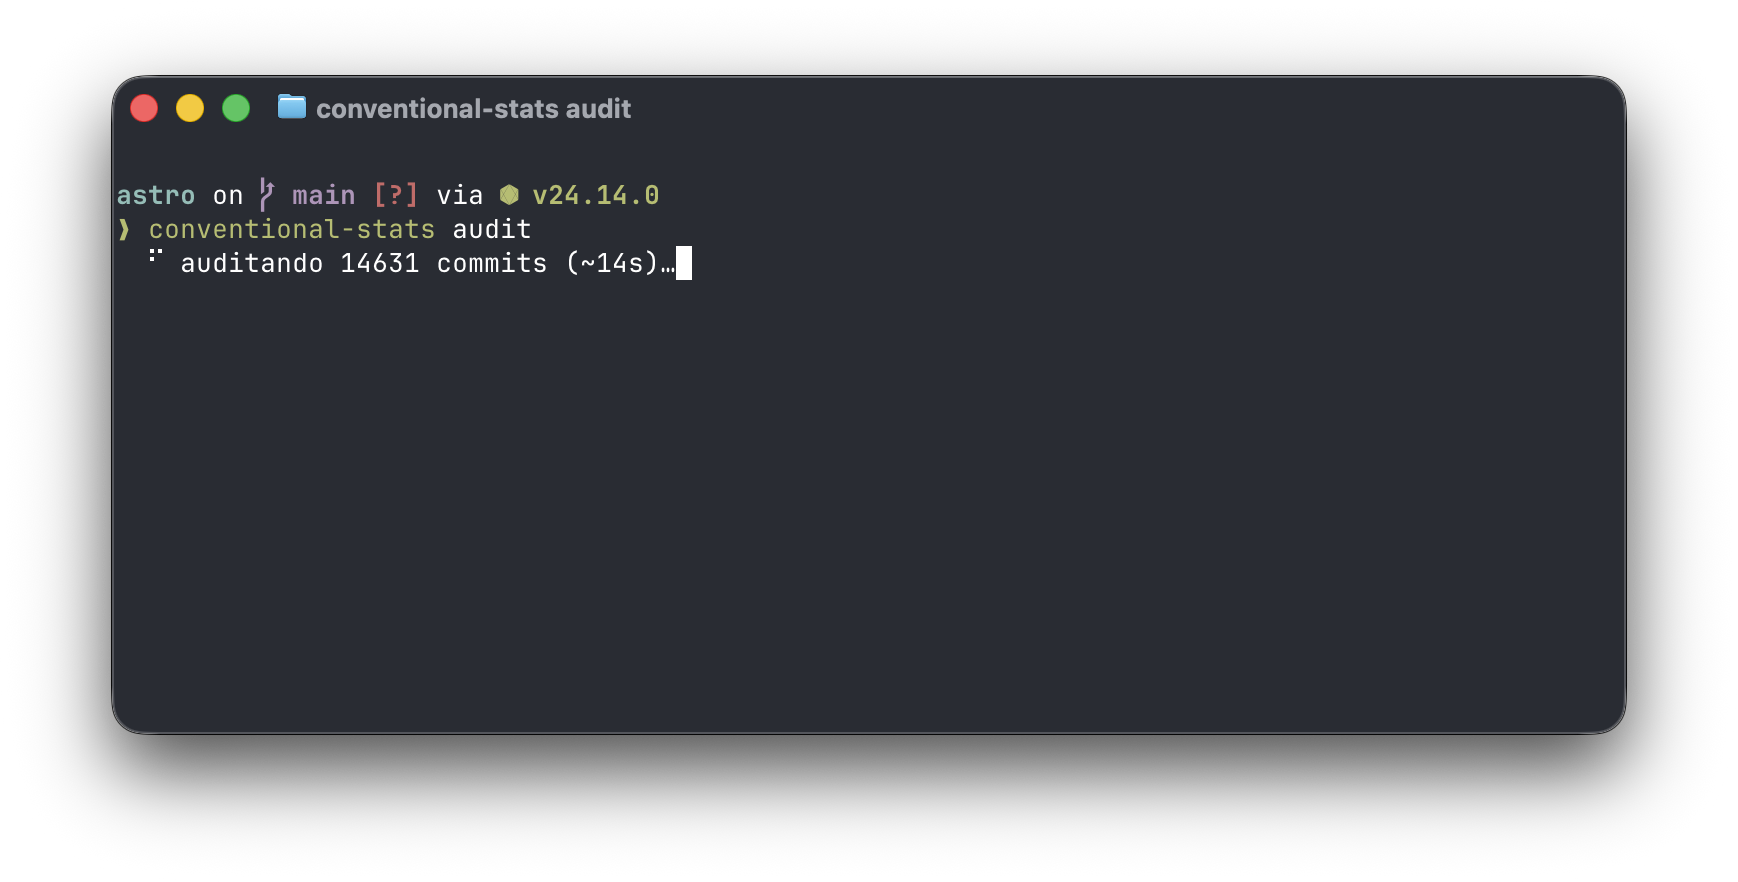
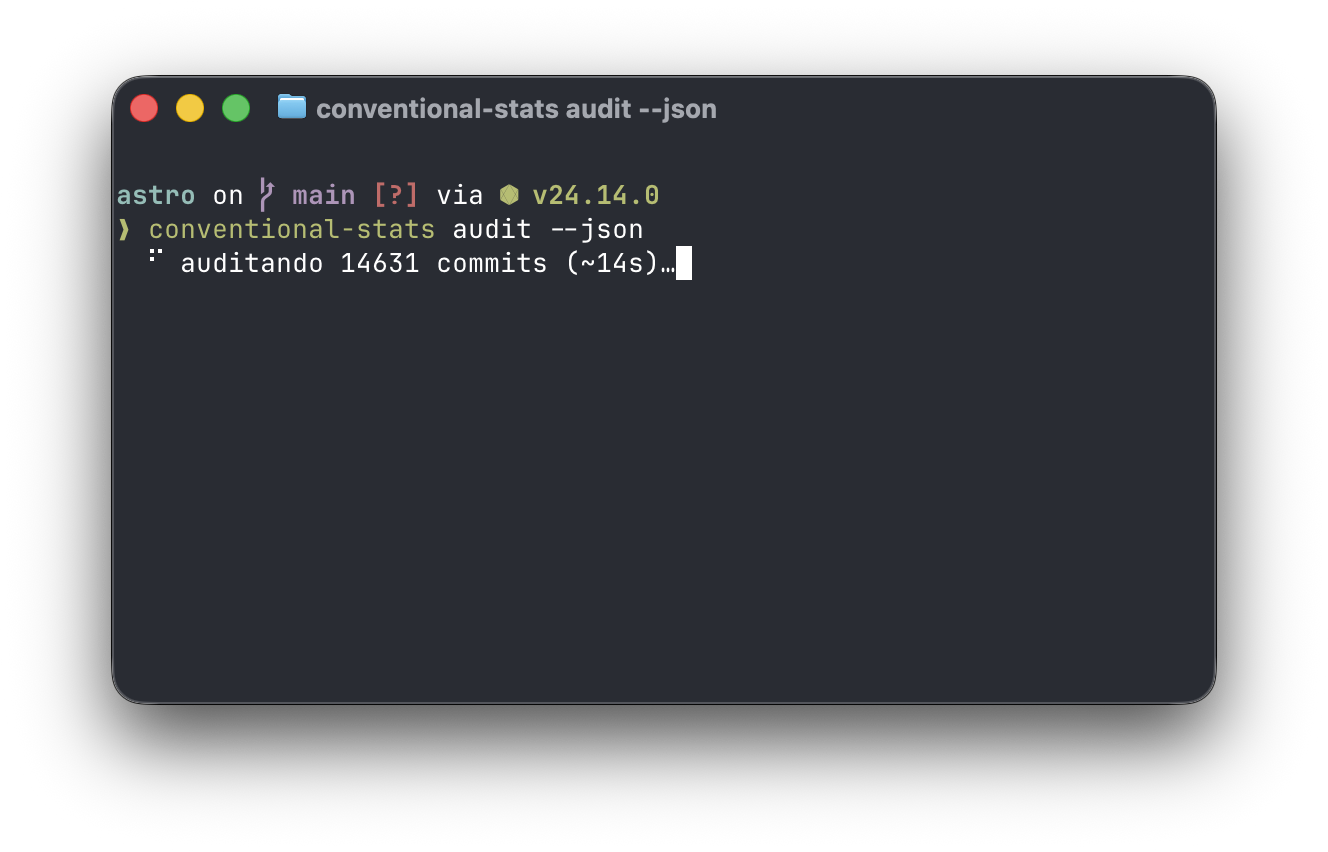
feat: name the audit JSON file conventional-audit.json
Prefix the default output filename so it's easy to add to .gitignore and
doesn't collide with an unrelated audit.json. Refresh the README
screenshots (loading + result) to match.

Changed region(s): [[0.0309, 0.061, 0.9571, 0.885]]

diff --git a/README.md b/README.md
@@ -84,7 +84,7 @@ conventional-stats audit --days 90               # últimos 90 días
 conventional-stats audit --ignore '*.gradle'     # excluir puntualmente (glob/dir)
 conventional-stats audit --init-ignore           # generar un .auditignore de plantilla
 conventional-stats audit --set-ignore '*.md'     # recordar exclusiones en .auditignore
-conventional-stats audit --json                  # informe completo → audit.json
+conventional-stats audit --json                  # informe completo → conventional-audit.json
 conventional-stats audit --json | jq '.hotspots' # o por pipe, para filtrar al vuelo
 ```
 
@@ -94,7 +94,7 @@ En repos grandes recorrer el historial tarda unos segundos, así que muestra el 
 
 ### Salida JSON a un archivo
 
-`--json` devuelve el informe **completo** (sin truncar, con el desglose por tipo). Si lo rediriges o haces pipe (`| jq`, `> informe.json`) sale por stdout; si lo lanzas a pelo en la terminal, en vez de inundarla **escribe `audit.json`** y te confirma:
+`--json` devuelve el informe **completo** (sin truncar, con el desglose por tipo). Si lo rediriges o haces pipe (`| jq`, `> informe.json`) sale por stdout; si lo lanzas a pelo en la terminal, en vez de inundarla **escribe `conventional-audit.json`** (nombre con prefijo, fácil de añadir al `.gitignore`) y te confirma:
 
 ![audit --json](assets/audit-json.png)
 

diff --git a/docs/cli.md b/docs/cli.md
@@ -95,7 +95,7 @@ A diferencia del render de terminal (top 20, con color), el JSON es **completo y
 
 `score = commits × churn` es la clave de orden (descendente).
 
-**Dónde va el JSON**: si rediriges o haces pipe (`audit --json | jq`, `audit --json > f.json`) se emite por stdout. Si lo lanzas a pelo en la terminal, en vez de inundarla escribe `audit.json` en el directorio actual y muestra `✓ N hotspots → audit.json`.
+**Dónde va el JSON**: si rediriges o haces pipe (`audit --json | jq`, `audit --json > f.json`) se emite por stdout. Si lo lanzas a pelo en la terminal, en vez de inundarla escribe `conventional-audit.json` en el directorio actual y muestra `✓ N hotspots → conventional-audit.json` (nombre con prefijo para que sea fácil de ignorar en `.gitignore`).
 
 ### Notas de implementación
 